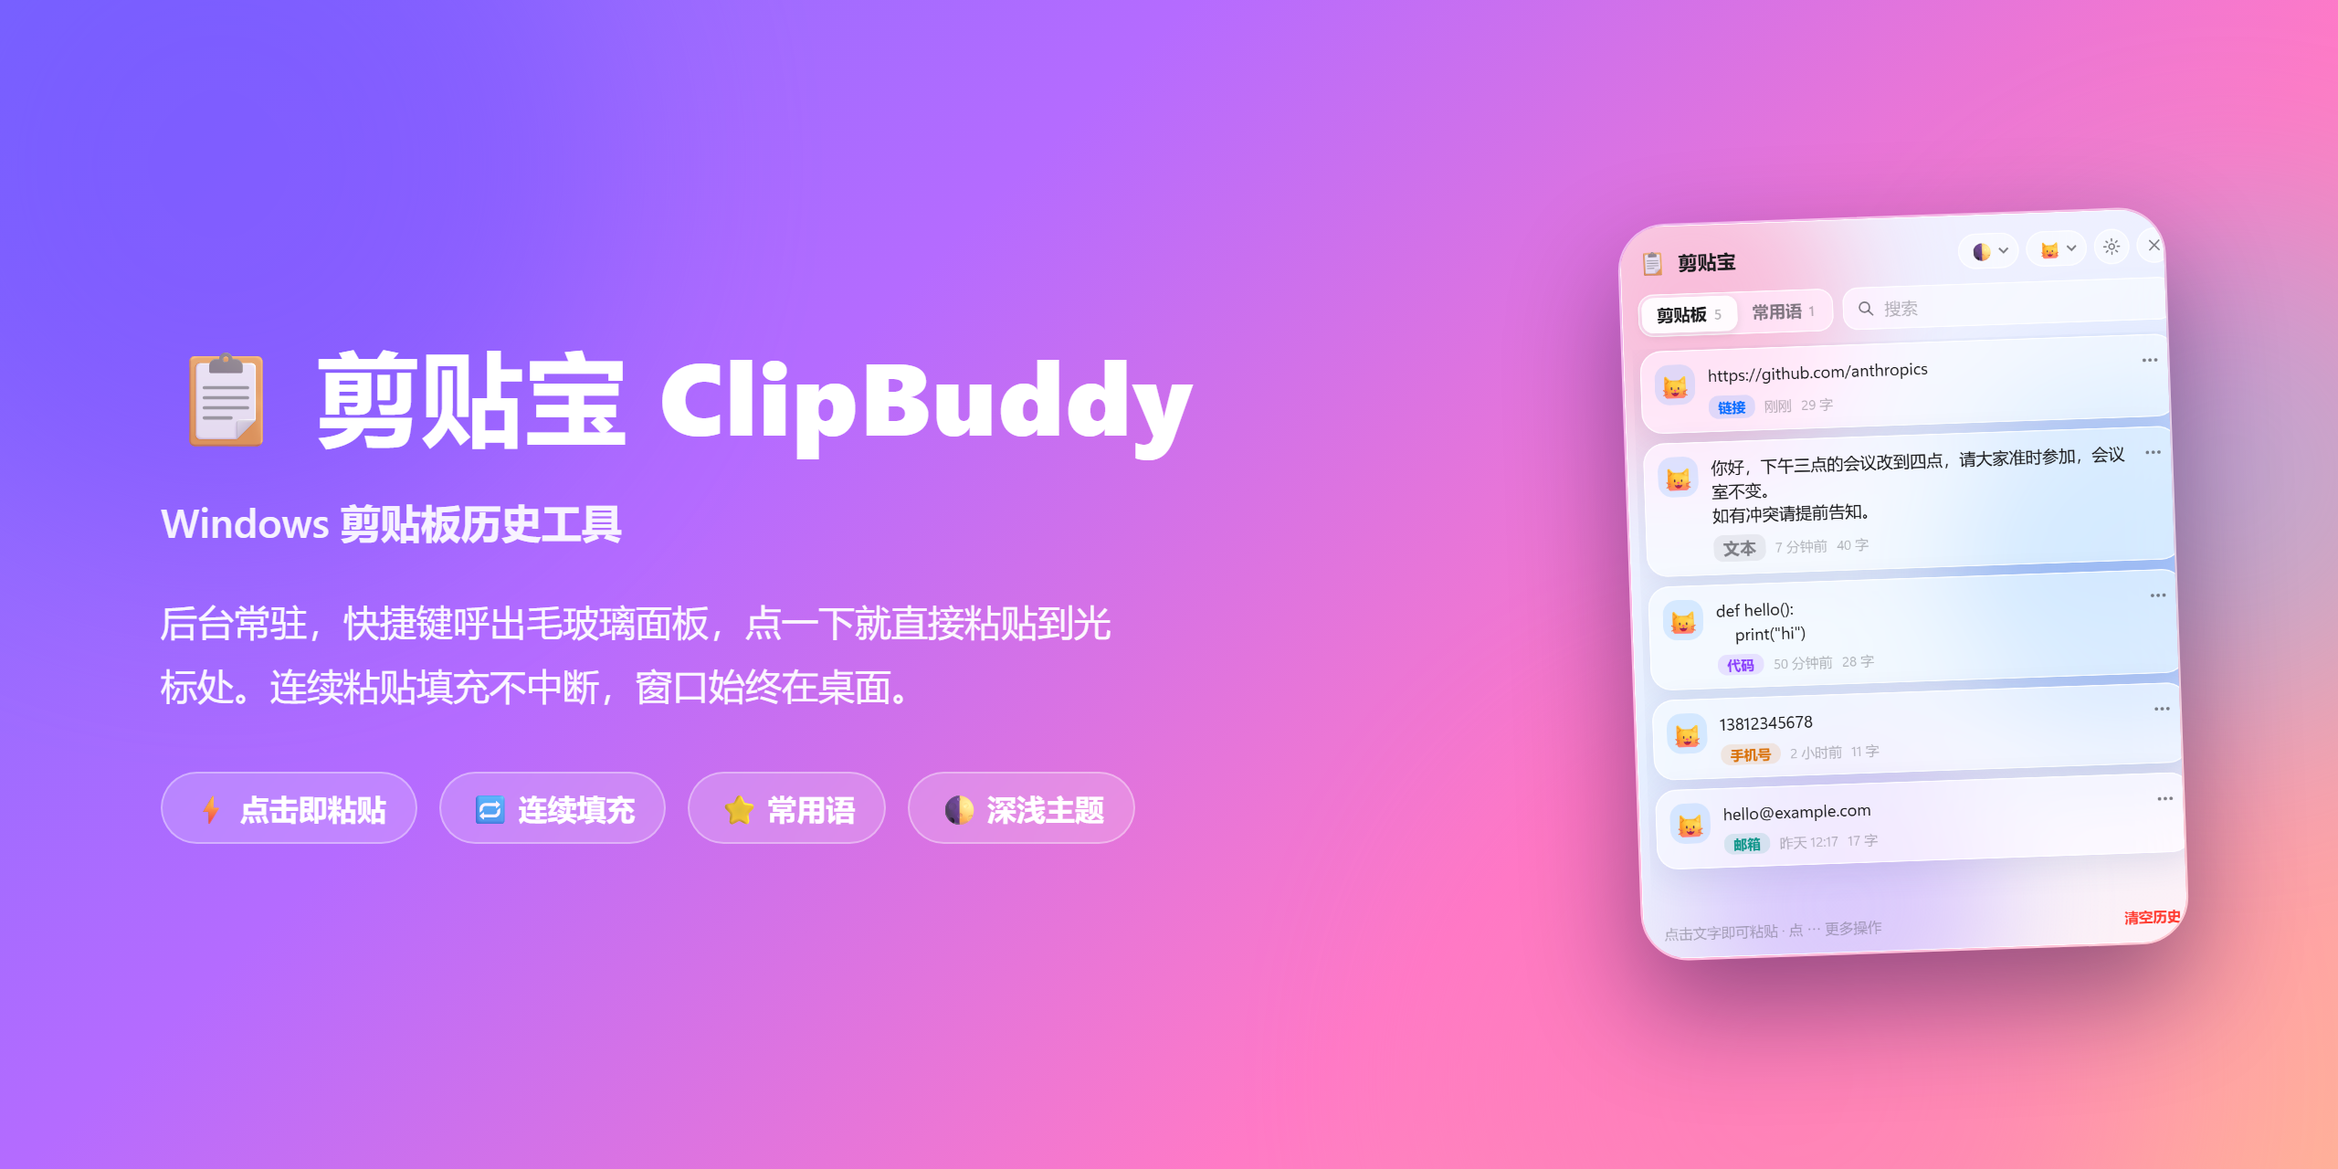
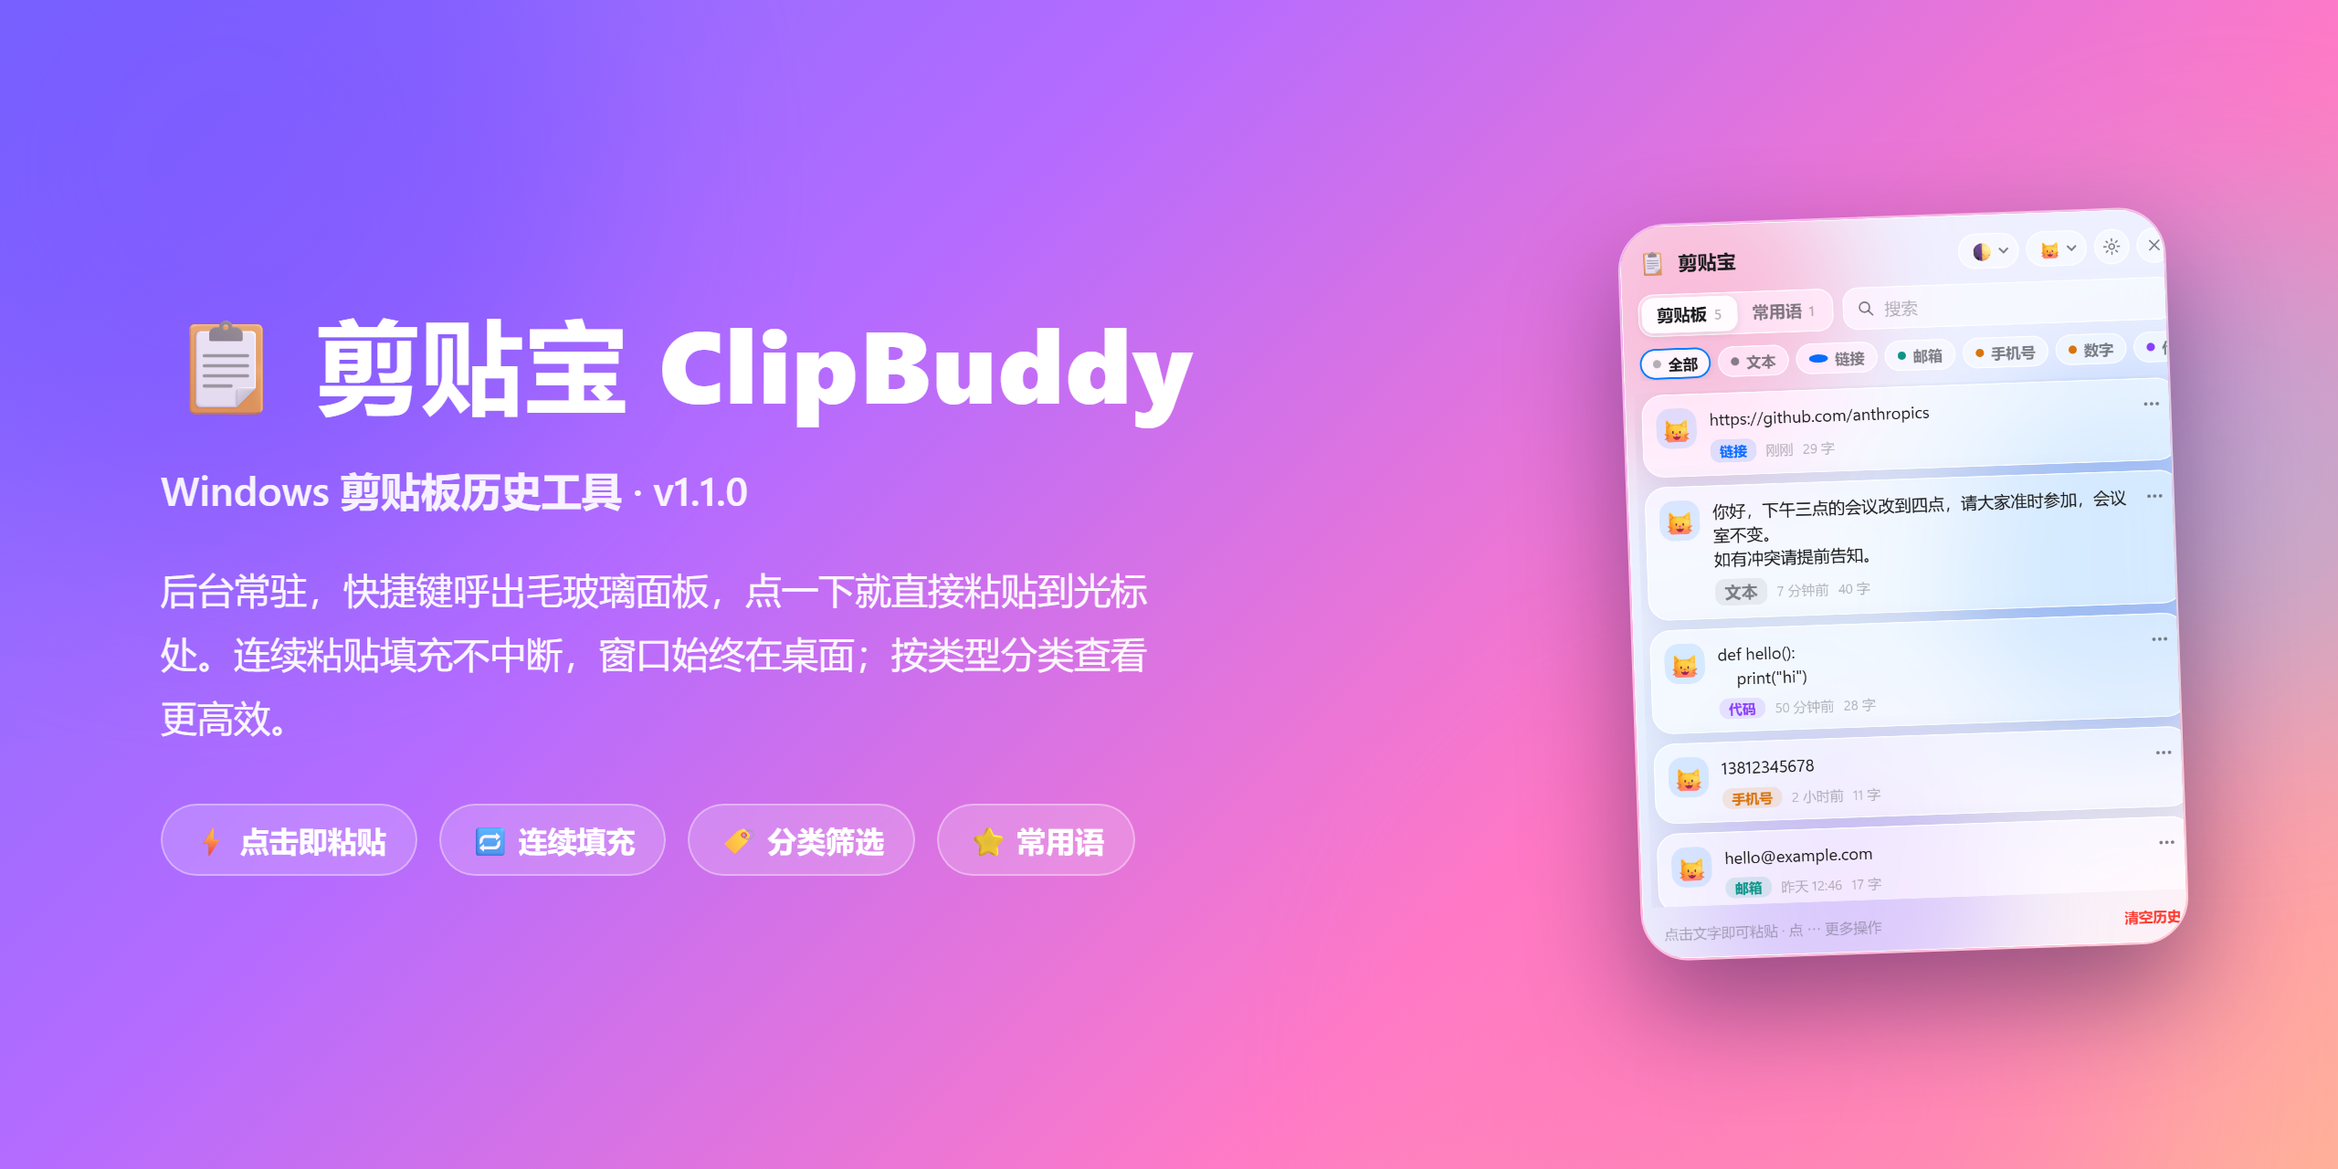
feat(v1.1.0): 分类筛选栏 + 自动粘贴可靠性优化; 新增CHANGELOG与版本号

Changed region(s): [[0.0625, 0.25, 0.5312, 0.625], [0.6875, 0.2812, 0.9375, 0.7812], [0.0625, 0.6562, 0.5, 0.75]]

diff --git a/ui/app.js b/ui/app.js
@@ -9,7 +9,7 @@ const THEMES = { auto: ['🌓', '跟随系统'], light: ['☀', '浅色'], da
 const ICON_MORE = '<svg viewBox="0 0 24 24"><circle cx="5.5" cy="12" r="1.9"/><circle cx="12" cy="12" r="1.9"/><circle cx="18.5" cy="12" r="1.9"/></svg>';
 
 let S = { history: [], favorites: [], settings: { theme: 'auto', pet: 'cat', max_items: 20, position: 'cursor', auto_hide: true, autostart: false }, env: { hotkeys: { toggle: [], clear: [] } } };
-let tab = 'history', query = '', sel = 0, kbd = false, view = [];
+let tab = 'history', query = '', sel = 0, kbd = false, view = [], cat = '全部';
 let api = null;
 
 /* ───────── 后端调用 ───────── */
@@ -67,9 +67,13 @@ function el(tag, cls, text) {
 function render() {
   const src = tab === 'history' ? S.history : S.favorites;
   const q = query.trim().toLowerCase();
-  view = src.filter((it) => !q || it.text.toLowerCase().includes(q));
+  view = src.filter((it) =>
+    (cat === '全部' || typeOf(it.text)[0] === cat) &&
+    (!q || it.text.toLowerCase().includes(q))
+  );
   if (sel >= view.length) sel = view.length - 1;
   if (sel < 0) sel = 0;
+  renderCats();
 
   $('#cntH').textContent = S.history.length;
   $('#cntF').textContent = S.favorites.length;
@@ -83,6 +87,7 @@ function render() {
   if (!view.length) {
     const e = el('div', 'empty');
     const msg = q ? ['🔍', '没有找到匹配的内容', '换个关键词试试'] :
+      cat !== '全部' ? ['🏷', '该分类下没有内容', '切换到「全部」查看'] :
       tab === 'history' ? ['✂', '还没有复制记录', '复制一段文字，它就会出现在这里'] :
         ['⭐', '还没有常用语', '在卡片的 ⋯ 菜单里加入，或点右下角新建'];
     e.append(el('div', 'big', msg[0]));
@@ -93,6 +98,13 @@ function render() {
   view.forEach((it, i) => frag.append(card(it, i)));
   list.replaceChildren(frag);
 }
+
+function renderCats() {
+  document.querySelectorAll('#cats button').forEach((b) => b.classList.toggle('on', b.dataset.cat === cat));
+}
+document.querySelectorAll('#cats button').forEach((b) => b.addEventListener('click', () => {
+  cat = b.dataset.cat; sel = 0; kbd = false; render(); $('#list').scrollTop = 0;
+}));
 
 function card(it, i) {
   const c = el('div', 'card' + ((kbd || query) && i === sel ? ' sel' : ''));
@@ -231,7 +243,8 @@ function buildSheet() {
   const note = el('div', 'srow note');
   note.append(document.createTextNode('呼出 / 隐藏：' + fmt(hk.toggle || [])), document.createElement('br'),
     document.createTextNode('清空历史：' + fmt(hk.clear || [])), document.createElement('br'),
-    document.createTextNode('↑↓ 选择，Enter 粘贴，Ctrl+1…9 快速粘贴，Esc 关闭'));
+    document.createTextNode('↑↓ 选择，Enter 粘贴，Ctrl+1…9 快速粘贴，Esc 关闭'), document.createElement('br'),
+    document.createTextNode('剪贴宝 v' + ((S.env && S.env.version) || '1.1.0')));
   const quit = el('div', 'srow');
   const qb = el('button', 'btn danger', '退出程序');
   qb.addEventListener('click', () => call('quit_app'));
@@ -318,7 +331,7 @@ window.onShow = async () => {
   const shell = $('#shell');
   shell.classList.remove('enter'); void shell.offsetWidth; shell.classList.add('enter');
   closeMenu(); closeSheet(); closeComposer(); hideToast();
-  query = ''; $('#q').value = ''; sel = 0; kbd = false;
+  query = ''; $('#q').value = ''; sel = 0; kbd = false; cat = '全部';
   await refresh();
   $('#list').scrollTop = 0;
   $('#q').focus();

diff --git a/ui/style.css b/ui/style.css
@@ -116,6 +116,26 @@ input, textarea { font: inherit; color: inherit; user-select: text; -webkit-user
 .search input { flex: 1; min-width: 0; background: none; border: 0; outline: 0; }
 .search input::placeholder { color: var(--text3); }
 
+/* 分类筛选栏 */
+.cats { display: flex; gap: 6px; flex: none; overflow-x: auto; scrollbar-width: none; padding-bottom: 1px; }
+.cats::-webkit-scrollbar { display: none; }
+.cats button {
+  flex: none; display: inline-flex; align-items: center; gap: 6px; height: 26px; padding: 0 11px;
+  border-radius: 13px; background: var(--glass); box-shadow: inset 0 0 0 1px var(--stroke);
+  backdrop-filter: blur(18px) saturate(1.6); font-size: 12.5px; font-weight: 600; color: var(--text2);
+  transition: background .18s, color .18s, box-shadow .18s;
+}
+.cats button:hover { background: var(--card-hover); color: var(--text); }
+.cats button.on { background: var(--glass-strong); color: var(--text); box-shadow: inset 0 0 0 1.5px var(--accent), 0 2px 8px rgba(0,0,0,.08); }
+.cats .dot { width: 7px; height: 7px; border-radius: 50%; flex: none; }
+.cats .dot.all { background: var(--text3); }
+.cats .dot.text { background: var(--chip-text); }
+.cats .dot.link { background: var(--chip-link); }
+.cats .dot.mail { background: var(--chip-mail); }
+.cats .dot.phone { background: var(--chip-num); }
+.cats .dot.num { background: var(--chip-num); }
+.cats .dot.code { background: var(--chip-code); }
+
 /* 列表与卡片 */
 .list { flex: 1; overflow-y: auto; margin: 0 -6px; padding: 2px 6px 4px; display: flex; flex-direction: column; gap: 8px; scroll-behavior: smooth; }
 .list::-webkit-scrollbar { width: 6px; }

diff --git a/ui/index.html b/ui/index.html
@@ -38,6 +38,16 @@
     </label>
   </div>
 
+  <div class="cats" id="cats" aria-label="分类筛选">
+    <button data-cat="全部" class="on"><i class="dot all"></i>全部</button>
+    <button data-cat="文本"><i class="dot text"></i>文本</button>
+    <button data-cat="链接"><i class="dot link"></i>链接</button>
+    <button data-cat="邮箱"><i class="dot mail"></i>邮箱</button>
+    <button data-cat="手机号"><i class="dot phone"></i>手机号</button>
+    <button data-cat="数字"><i class="dot num"></i>数字</button>
+    <button data-cat="代码"><i class="dot code"></i>代码</button>
+  </div>
+
   <section class="list" id="list"></section>
 
   <footer class="foot">

diff --git a/app.py b/app.py
@@ -11,6 +11,7 @@ import threading
 import time
 
 APP_TITLE = "剪贴宝 ClipBuddy"
+APP_VERSION = "1.1.0"
 WIDTH, HEIGHT = 460, 620
 
 
@@ -230,6 +231,37 @@ class Controller:
         self._notify(f"已清空 {n} 条历史")
 
     # ───────── 粘贴 ─────────
+    def _deliver_paste(self, prev):
+        """把已写入剪贴板的内容粘贴到目标窗口 prev，尽量保证焦点确实切过去再发 Ctrl+V。
+
+        面板显示时：先让出置顶，避免面板盖住目标窗口抢焦点；粘贴完成后再恢复置顶并拉回前台。
+        若多次尝试仍无法让目标窗口拿到焦点（如目标为管理员权限程序），不发送按键，
+        改为提示手动 Ctrl+V，避免误粘到面板自身。
+        """
+        w = self._w
+        if self._visible:
+            w.set_topmost(self._hwnd, False)   # 面板先让出置顶
+        try:
+            focused = False
+            for _ in range(4):
+                w.force_foreground(prev, retries=3)
+                time.sleep(0.10)
+                for _ in range(12):            # 最多再等约 0.36s 让焦点真正落到目标窗口
+                    if w.foreground() == prev:
+                        focused = True
+                        break
+                    time.sleep(0.03)
+                if focused:
+                    break
+            if focused:
+                w.send_ctrl_v()
+            else:
+                self._js("window.toast && window.toast('未能自动粘贴，内容已复制，请手动 Ctrl+V')")
+        finally:
+            if self._visible:
+                w.set_topmost(self._hwnd, True)
+                w.force_foreground(self._hwnd)
+
     def _do_paste(self, text, source):
         w = self._w
         if not self._write_clipboard(text):
@@ -243,12 +275,7 @@ class Controller:
             self._hide(restore=True)
             if not prev:
                 return
-            time.sleep(0.12)
-            for _ in range(15):
-                if w.foreground() == prev:
-                    break
-                time.sleep(0.03)
-            w.send_ctrl_v()
+            self._deliver_paste(prev)
             return
 
         # 面板保持显示（连续粘贴填充）：临时把焦点交给目标窗口完成粘贴，再把面板拉回前台
@@ -256,14 +283,9 @@ class Controller:
             self._pasting = True
         try:
             if prev and w.is_window(prev):
-                w.force_foreground(prev)
-                time.sleep(0.12)
-                for _ in range(15):
-                    if w.foreground() == prev:
-                        break
-                    time.sleep(0.03)
-                w.send_ctrl_v()
-            w.force_foreground(self._hwnd)   # 先把面板拉回前台，再解除粘贴守卫
+                self._deliver_paste(prev)
+            else:
+                w.force_foreground(self._hwnd)   # 没有目标窗口（托盘打开）：只复制，面板保持在前
         finally:
             with self._lock:
                 self._pasting = False
@@ -273,7 +295,7 @@ class Controller:
         from core import autostart
         state = self._store.snapshot()
         state["settings"]["autostart"] = autostart.is_enabled()
-        state["env"] = {"hotkeys": self._config["hotkeys"]}
+        state["env"] = {"hotkeys": self._config["hotkeys"], "version": APP_VERSION}
         return state
 
     def paste(self, source, item_id):

diff --git a/core/winapi.py b/core/winapi.py
@@ -314,22 +314,36 @@ def is_window(hwnd):
     return bool(hwnd) and bool(user32.IsWindow(hwnd))
 
 
-def force_foreground(hwnd):
-    """尽力把 hwnd 切到前台（借助 AttachThreadInput 绕过前台锁）。"""
+def force_foreground(hwnd, retries=3):
+    """尽力把 hwnd 切到前台（借助 AttachThreadInput 绕过前台锁），失败则重试。
+
+    同时绑定当前前台线程与目标线程的输入队列，比只绑前台线程更可靠；
+    重试若干次以提高命中率（Windows 前台切换受系统限制，未必一次成功）。
+    """
     if not is_window(hwnd):
         return False
-    fg = user32.GetForegroundWindow()
-    if fg == hwnd:
-        return True
     cur = kernel32.GetCurrentThreadId()
-    fg_tid = user32.GetWindowThreadProcessId(fg, None) if fg else 0
-    attached = bool(fg_tid and fg_tid != cur and user32.AttachThreadInput(cur, fg_tid, True))
-    try:
-        user32.BringWindowToTop(hwnd)
-        return bool(user32.SetForegroundWindow(hwnd))
-    finally:
-        if attached:
-            user32.AttachThreadInput(cur, fg_tid, False)
+    for _ in range(max(1, retries)):
+        fg = user32.GetForegroundWindow()
+        if fg == hwnd:
+            return True
+        fg_tid = user32.GetWindowThreadProcessId(fg, None) if fg else 0
+        tgt_tid = user32.GetWindowThreadProcessId(hwnd, None)
+        attached = []
+        if fg_tid and fg_tid != cur and user32.AttachThreadInput(cur, fg_tid, True):
+            attached.append(fg_tid)
+        if tgt_tid and tgt_tid != cur and user32.AttachThreadInput(cur, tgt_tid, True):
+            attached.append(tgt_tid)
+        try:
+            user32.BringWindowToTop(hwnd)
+            user32.SetForegroundWindow(hwnd)
+            if user32.GetForegroundWindow() == hwnd:
+                return True
+        finally:
+            for tid in attached:
+                user32.AttachThreadInput(cur, tid, False)
+        time.sleep(0.02)
+    return False
 
 
 def window_size(hwnd):
@@ -343,6 +357,16 @@ def move_window(hwnd, x, y, topmost=True):
     if not topmost:
         flags |= SWP_NOZORDER
     user32.SetWindowPos(hwnd, HWND_TOPMOST if topmost else None, int(x), int(y), 0, 0, flags)
+
+
+def set_topmost(hwnd, on):
+    """置顶 / 取消置顶，不改变位置与大小。"""
+    if not is_window(hwnd):
+        return False
+    flags = SWP_NOMOVE | SWP_NOSIZE
+    if not on:
+        flags |= SWP_NOZORDER
+    return bool(user32.SetWindowPos(hwnd, HWND_TOPMOST if on else None, 0, 0, 0, 0, flags))
 
 
 def cursor_pos():

diff --git a/README.md b/README.md
@@ -13,6 +13,8 @@
 [![Platform](https://img.shields.io/badge/platform-Windows%2010%2F11-blue)](https://github.com/797loy/clipbuddy-windows)
 [![Python](https://img.shields.io/badge/Python-3.9%E2%80%933.13-3776AB?logo=python&logoColor=white)](https://www.python.org)
 [![UI](https://img.shields.io/badge/UI-pywebview%20%2B%20WebView2-6f4dff)](https://pywebview.flowrl.com)
+[![Version](https://img.shields.io/badge/version-v1.1.0-6f4dff)](CHANGELOG.md)
+[![Release](https://img.shields.io/badge/Release-v1.1.0-orange)](https://github.com/797loy/clipbuddy-windows/releases)
 [![License](https://img.shields.io/badge/License-MIT-yellow.svg)](LICENSE)
 
 </div>
@@ -22,8 +24,9 @@
 ## ✨ 功能特色
 
 - **自动记录**：复制过的文字自动入历史，相同内容去重，默认保留 20 条（可设 10 / 20 / 50 / 100），重启不丢。
-- **点击即粘贴**：点卡片（或 `↑↓ + Enter`、`Ctrl+1…9`），内容自动粘贴到你复制前所在窗口的光标处。
+- **点击即粘贴**：点卡片（或 `↑↓ + Enter`、`Ctrl+1…9`），内容**自动粘贴**到你复制前所在窗口的光标处——无需手动 Ctrl+V。
 - **🔁 连续粘贴填充**：粘贴后**面板不隐藏**，窗口始终停在桌面——在表格、表单里连续点击即可逐条填充，不用反复呼出。
+- **🏷 分类筛选**：顶部分类栏可按「文本 / 链接 / 邮箱 / 手机号 / 数字 / 代码」筛选查看，配合搜索更高效。
 - **常用语**：跨会话保留，可在面板里直接新建，右键卡片即可加入 / 移出。
 - **智能识别**：自动标注类型标签 —— 链接 / 邮箱 / 手机号 / 数字 / 代码 / 文本。
 - **快速搜索**：按关键词过滤历史与常用语。
@@ -42,6 +45,14 @@
 ## 🚀 安装
 
 > 需要 **Windows 10 / 11** 和 **Python 3.9 – 3.13**（Win10/11 已自带 WebView2 运行时）。
+
+### 📦 获取代码（怎么下载）
+
+- **下载 ZIP（最简单）**：打开仓库主页 → 右上角绿色 **Code** 按钮 → **Download ZIP**，解压到任意目录即可。
+- **克隆仓库**：`git clone https://github.com/797loy/clipbuddy-windows.git`
+- **预编译 exe**：到右侧 **Releases** 页面下载 `ClipBuddy.exe`，双击即可运行（无需装 Python）——最方便，适合普通用户。
+
+拿到代码后，按下面任一方式启动：
 
 ### 方法一：一键安装（推荐）
 
@@ -151,6 +162,13 @@ UI 调试：直接用浏览器打开 `ui/index.html` 会进入带演示数据的
 - **快捷键无效**：可能被其他软件占用。查看 `clipbuddy.log` 里的「热键注册失败」，在 `config.json` 里换一个。
 - **看不到面板**：看任务栏托盘图标，右键可打开 / 退出；或再次双击桌面快捷方式。
 - **只记录文字**：图片、文件等暂不记录。
+
+## 📑 更新日志
+
+完整版本记录见 [CHANGELOG.md](CHANGELOG.md)。
+
+- **v1.1.0**：新增分类筛选栏、连续粘贴填充；优化自动粘贴可靠性；标注版本号。
+- **v1.0.0**：初始版本 —— 剪贴板历史 / 常用语 / 搜索 / 主题等基础功能。
 
 ## 📄 License
 

diff --git a/CHANGELOG.md b/CHANGELOG.md
@@ -1,0 +1,26 @@
+# 更新日志 Changelog
+
+本项目采用 [语义化版本](https://semver.org/lang/zh-CN/)（SemVer）。
+
+## [1.1.0] - 2026-10-24
+
+### ✨ 新增
+- **分类筛选栏**：可按「文本 / 链接 / 邮箱 / 手机号 / 数字 / 代码」分类查看剪贴历史与常用语，配合搜索更高效。
+- **连续粘贴填充**：粘贴后面板保持显示、窗口停在桌面，在表格 / 表单里可连续点击逐条填充，不用反复呼出。
+- 设置面板显示当前版本号。
+
+### 🔧 改进
+- **自动粘贴更可靠**：点击卡片即自动粘贴到目标窗口，无需手动 Ctrl+V。粘贴时面板会临时让出置顶、并优化前台切换算法（绑定目标线程 + 重试），确保焦点确实落到目标窗口后才发送按键；若因系统限制（如目标为管理员权限程序）仍无法自动粘贴，会提示手动操作，避免误粘到面板自身。
+- 兼容性：改键、开机自启等原有配置不受影响。
+
+### 🐛 修复
+- 修复了部分场景下「点卡片没有自动粘贴、还需手动 Ctrl+V」的问题。
+
+## [1.0.0] - 2026-10-24
+
+### 🎉 初始版本
+- 剪贴板历史记录、去重、持久化（默认保留 20 条，可设 10 / 20 / 50 / 100）。
+- 点击卡片即粘贴、常用语标签页、一键新建常用语。
+- 智能识别类型标签：链接 / 邮箱 / 手机号 / 数字 / 代码 / 文本。
+- 快速搜索、清空历史可撤销、深浅主题（跟随系统）、宠物图标。
+- 全局快捷键、系统托盘、单实例、开机自启、隐私友好（忽略密码管理器内容）。
